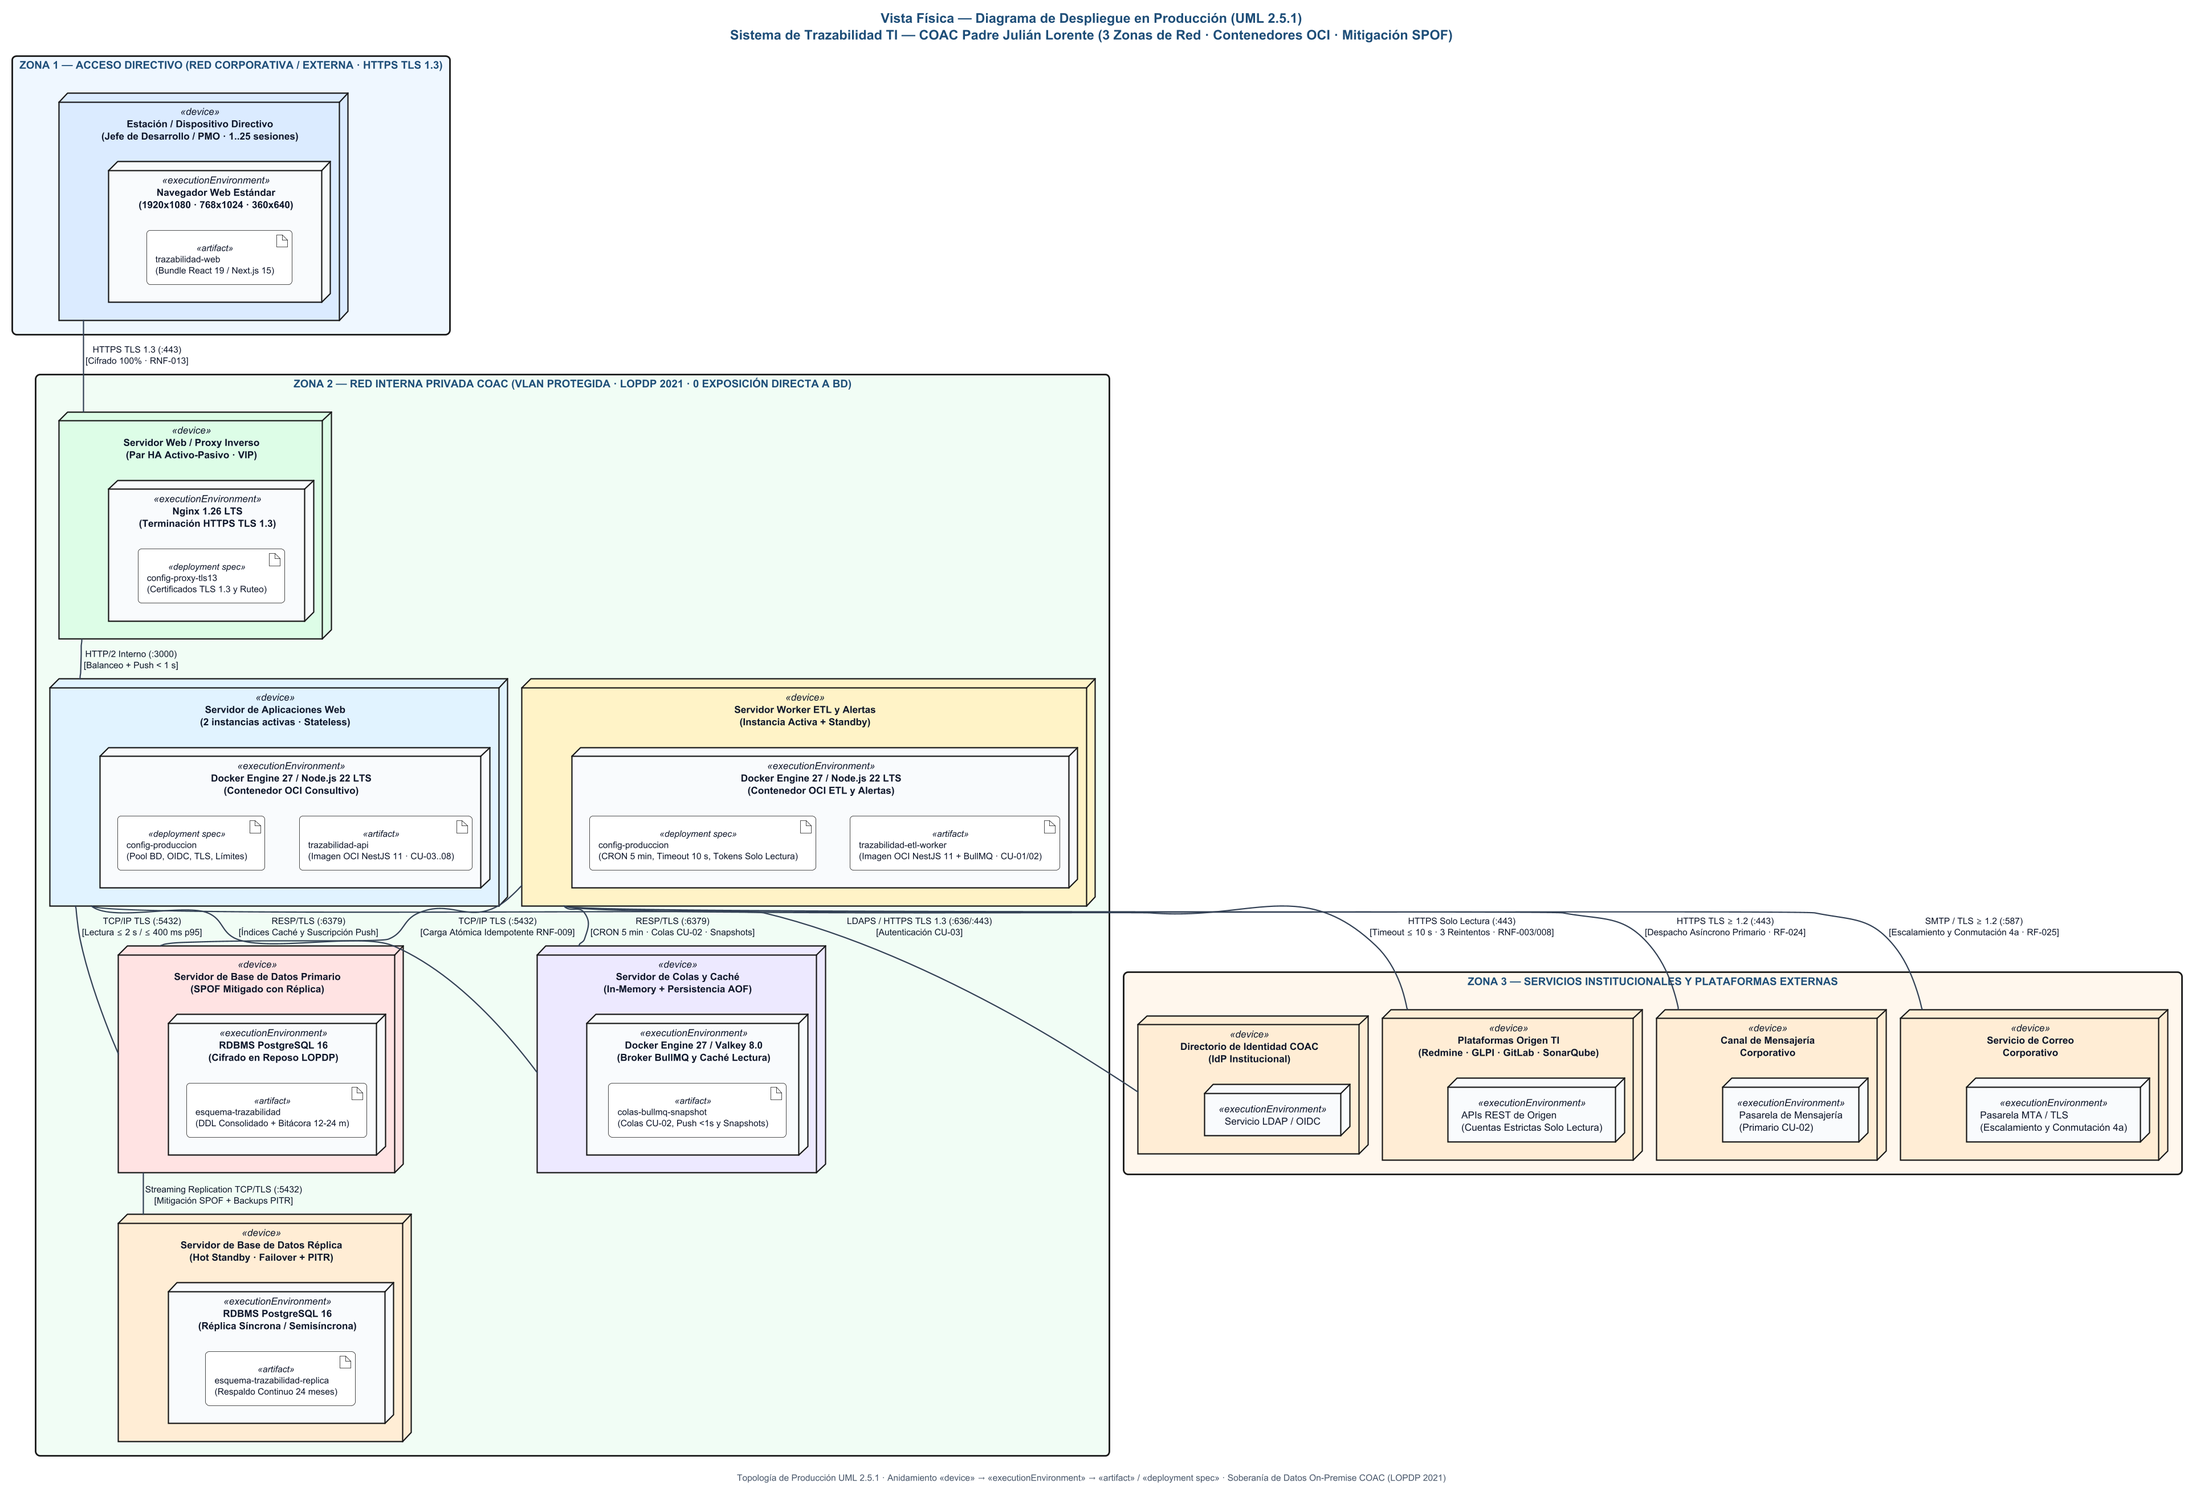
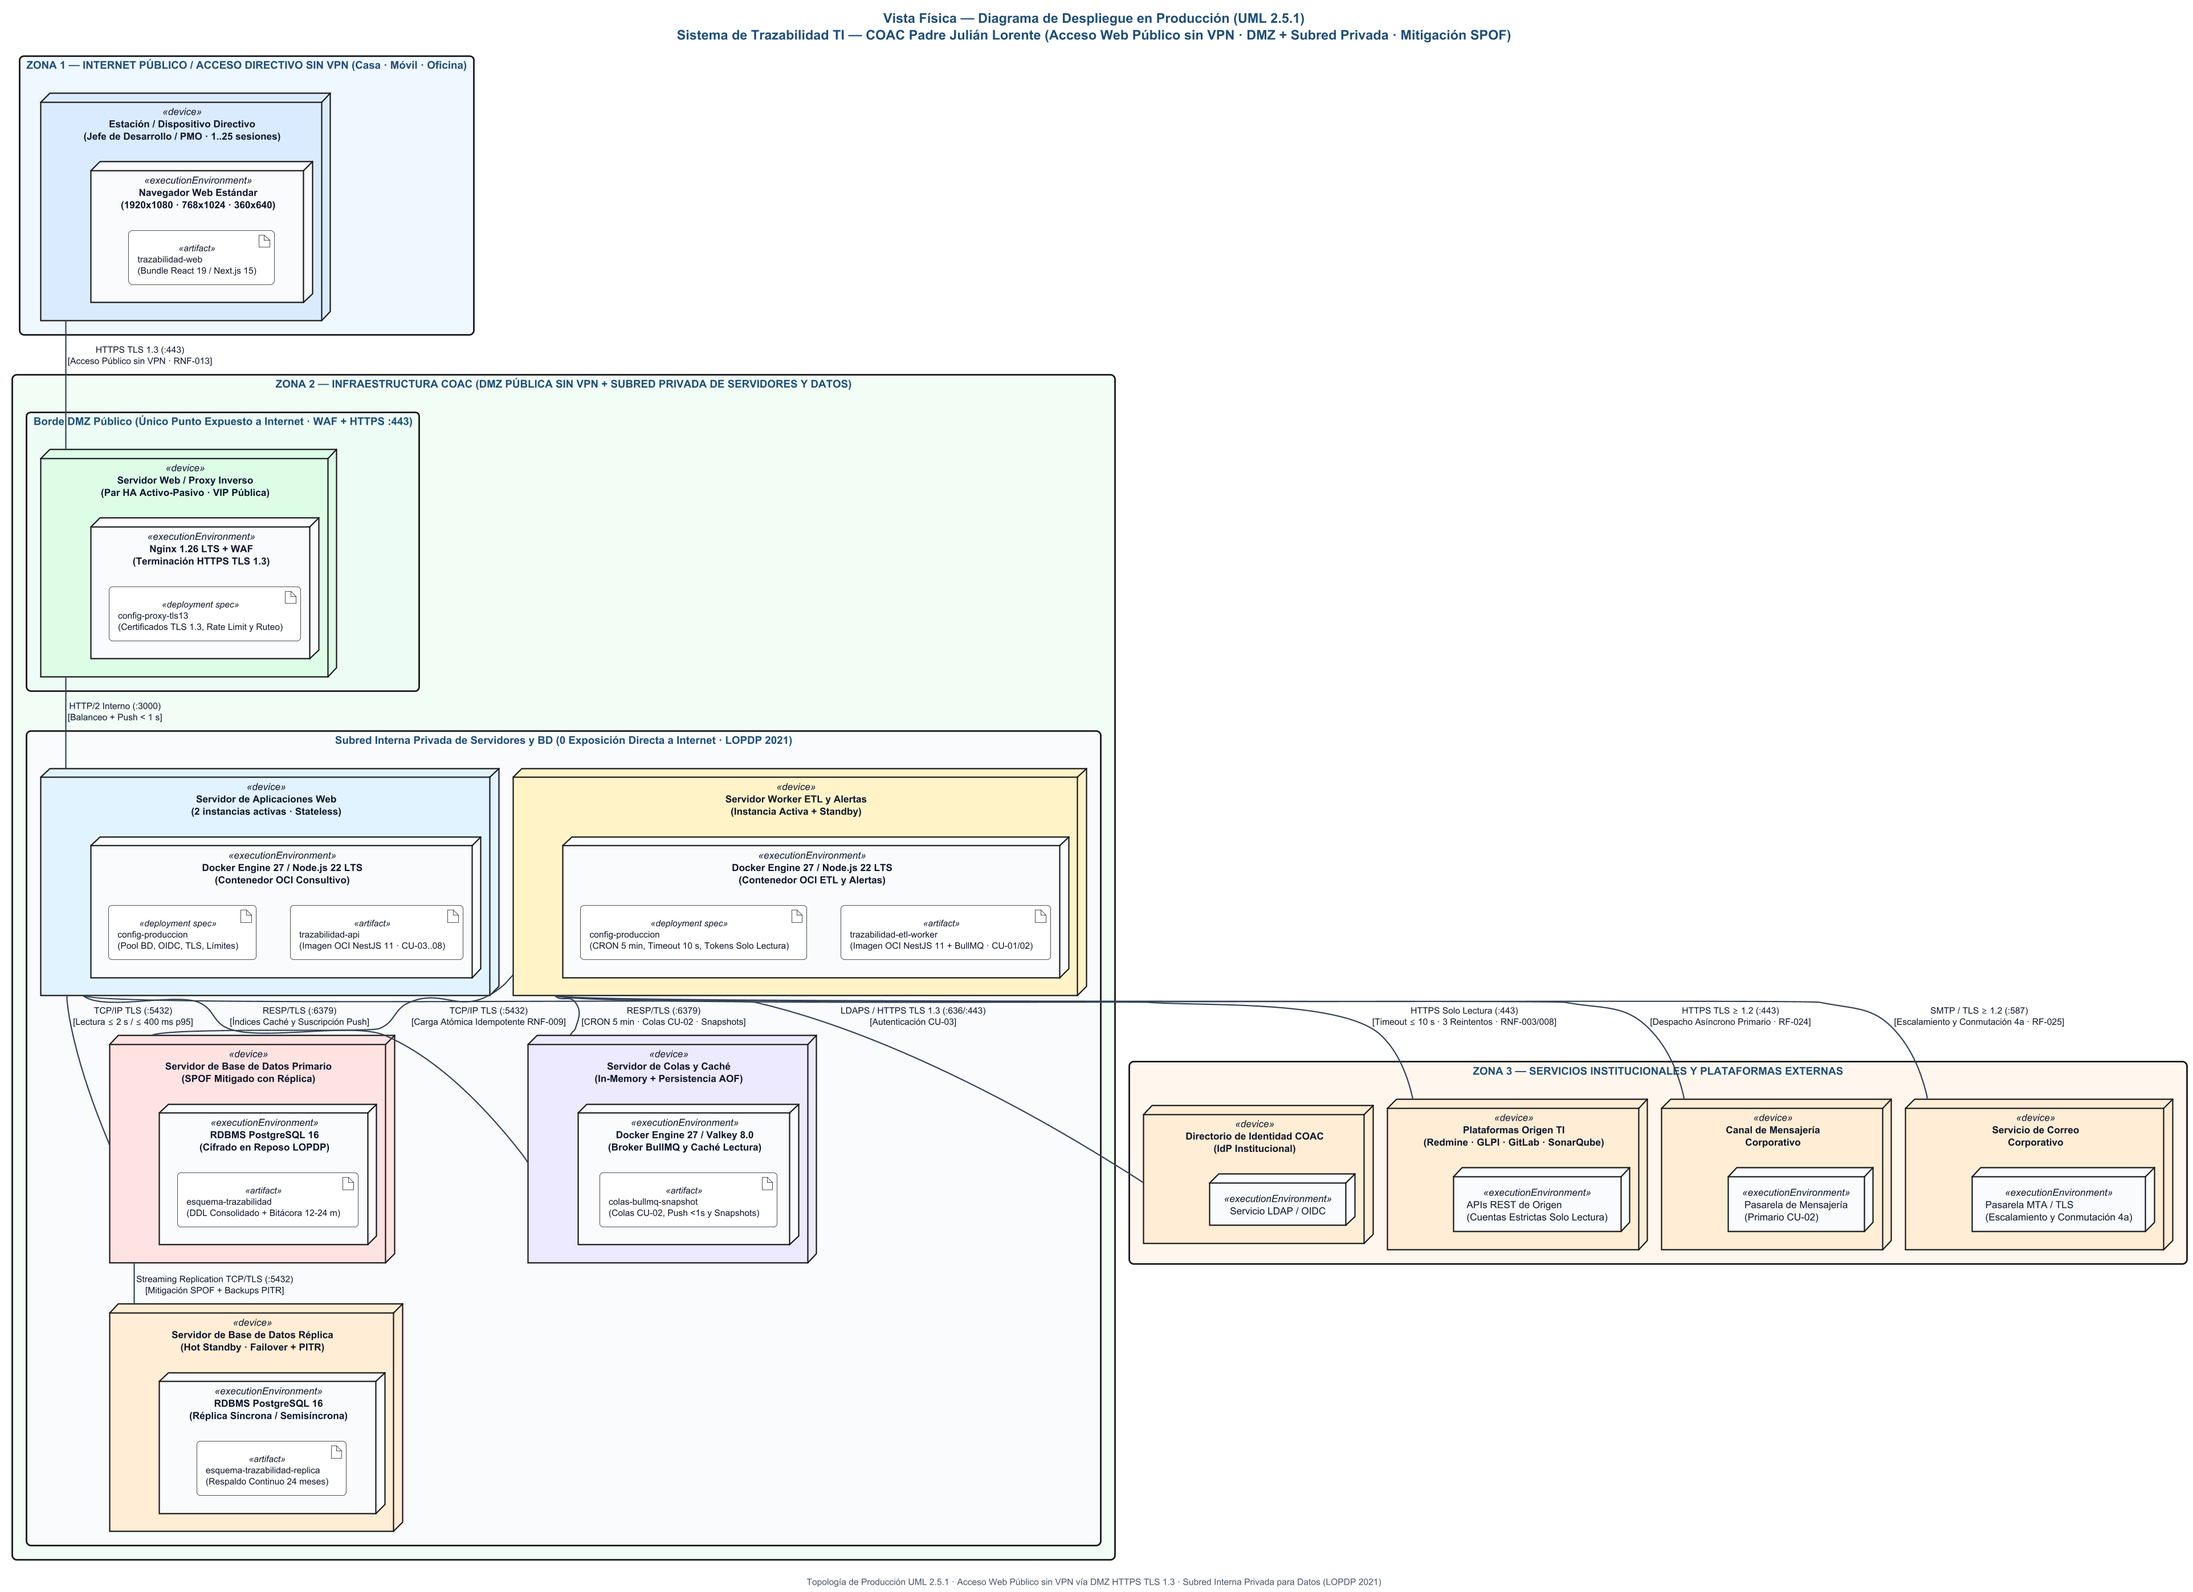
docs(vista-fisica): explicitar acceso web público sin VPN vía DMZ HTTPS y subred privada de BD

Changed region(s): [[0.0, 0.031, 1.0, 1.0], [0.31, 0.0, 0.6819, 0.031]]

diff --git a/docs/vista-fisica-despliegue.md b/docs/vista-fisica-despliegue.md
@@ -58,15 +58,15 @@ $$\text{Clase (Vista Lógica)} \longrightarrow \text{Paquete (Desarrollo)} \long
 
 ## 3. Diagramas de Despliegue por Entorno (Producción y Desarrollo Local)
 
-### 3.1 Entorno de Producción (3 Zonas de Red y Mitigación de SPOF)
-La topología productiva segrega estrictamente el tráfico en **3 zonas de confianza**:
-1. **Zona 1 — Acceso Directivo (Red Corporativa / Externa):** Únicamente la `Estación / Dispositivo Directivo` del `Jefe de Desarrollo / PMO` (hasta 25 sesiones concurrentes) ejecutando `trazabilidad-web` en navegador estándar y conectándose exclusivamente mediante **`HTTPS TLS 1.3 (:443)`** (`RNF-013`).
-2. **Zona 2 — Red Interna Privada COAC (VLAN Protegida):**
-   - **Borde:** `Servidor Web / Proxy Inverso` en **Par HA Activo-Pasivo (VIP)** con `Nginx 1.26 LTS`, única puerta de entrada cifrada que balancea peticiones hacia las instancias consultivas.
-   - **Aplicación Consultiva:** `Servidor de Aplicaciones Web (2 instancias activas, stateless)` con `trazabilidad-api`, garantizando `<= 2 s` p95 (`RNF-014`), `<= 400 ms` p95 en filtros (`RNF-018`) y continuidad inmediata si cae una instancia.
-   - **Procesamiento ETL y Alertas:** `Servidor Worker ETL y Alertas (Activo-Pasivo)` con `trazabilidad-etl-worker`, aislando físicamente el ciclo cada 5 minutos (`CU-01`) y el despacho externo (`CU-02`) del tráfico web.
-   - **Colas y Caché:** `Servidor de Colas y Caché` (`Valkey 8.0`) soportando colas `BullMQ`, snapshots de contingencia (`RNF-008`) y canal push incremental `< 1 s` (`RF-034`).
-   - **Datos con Mitigación SPOF:** `Servidor de Base de Datos Primario` (`PostgreSQL 16` con cifrado en reposo LOPDP) replicado en tiempo real hacia `Servidor de Base de Datos Réplica (Hot Standby)` con respaldos `PITR`.
+### 3.1 Entorno de Producción (Acceso Web Público sin VPN · 3 Zonas de Red · Mitigación de SPOF)
+La topología productiva publica el portal web de manera **accesible por Internet sin requerir VPN** (para que la PMO y Jefatura puedan consultar desde casa, móvil u oficina autenticándose mediante `CU-03`), mientras segrega estrictamente los servidores internos y la base de datos en **3 zonas de confianza**:
+1. **Zona 1 — Internet Público / Acceso Directivo sin VPN (Casa · Móvil · Oficina):** `Estación / Dispositivo Directivo` del `Jefe de Desarrollo / PMO` (hasta 25 sesiones concurrentes) ejecutando `trazabilidad-web` en navegador estándar (`1920x1080`, `768x1024`, `360x640 px`) y conectándose directamente por Internet mediante **`HTTPS TLS 1.3 (:443)`** (`RNF-013`) sin necesidad de cliente VPN, protegido mediante autenticación institucional (`CU-03`).
+2. **Zona 2 — Infraestructura COAC (Borde DMZ Público + Subred Interna Privada de Servidores y Datos):**
+   - **Borde DMZ Público (único punto expuesto a Internet):** `Servidor Web / Proxy Inverso` en **Par HA Activo-Pasivo (VIP Pública)** con `Nginx 1.26 LTS + WAF` y limitación de tasa (*rate limiting*), única puerta de entrada cifrada `HTTPS TLS 1.3 (:443)` que balancea peticiones hacia las instancias consultivas.
+   - **Subred Interna Privada — Aplicación Consultiva:** `Servidor de Aplicaciones Web (2 instancias activas, stateless)` con `trazabilidad-api`, garantizando `<= 2 s` p95 (`RNF-014`), `<= 400 ms` p95 en filtros (`RNF-018`) y continuidad inmediata si cae una instancia.
+   - **Subred Interna Privada — Procesamiento ETL y Alertas:** `Servidor Worker ETL y Alertas (Activo-Pasivo)` con `trazabilidad-etl-worker`, aislando físicamente el ciclo cada 5 minutos (`CU-01`) y el despacho externo (`CU-02`) del tráfico web.
+   - **Subred Interna Privada — Colas y Caché:** `Servidor de Colas y Caché` (`Valkey 8.0`) soportando colas `BullMQ`, snapshots de contingencia (`RNF-008`) y canal push incremental `< 1 s` (`RF-034`).
+   - **Subred Interna Privada — Datos con Mitigación SPOF (0 exposición directa a Internet):** `Servidor de Base de Datos Primario` (`PostgreSQL 16` con cifrado en reposo LOPDP) replicado en tiempo real hacia `Servidor de Base de Datos Réplica (Hot Standby)` con respaldos `PITR`.
 3. **Zona 3 — Servicios Institucionales y Plataformas Externas:** `Plataformas Origen TI` (`Redmine`, `GLPI`, `GitLab`, `SonarQube`) accedidas únicamente desde el Worker ETL en **solo lectura (`RNF-003`)**, `Directorio de Identidad COAC (LDAP/OIDC)` para `CU-03`, y canales salientes `Canal de Mensajería Corporativo` y `Servicio de Correo Corporativo` sobre `TLS >= 1.2` (`RNF-015`).
 
 ![Diagrama de Despliegue en Producción UML 2.5.1](uml/diagrama-despliegue-produccion.png)
@@ -82,8 +82,8 @@ Para demostrar que el mapeo físico es flexible sin modificar código fuente, lo
 
 | Nodo Físico (`«device»`) | Entorno Anidado (`«executionEnvironment»`) | Artefactos Alojados (`«deploy»`) | Multiplicidad / Zona | Protocolos y Puertos | Hardware Base Recomendado y SO |
 |---|---|---|---|---|---|
-| **Estación / Dispositivo Directivo** | Navegador Web estándar (Chrome, Edge, Firefox) | `trazabilidad-web` | `1..25` sesiones simultáneas (Zona 1) | Salida: `HTTPS TLS 1.3` (`:443`) | PC de escritorio, tableta o móvil institucional (`1920x1080`, `768x1024`, `360x640 px`, mín. 4 GB RAM). |
-| **Servidor Web / Proxy Inverso** | `Nginx 1.26 LTS` | `config-proxy-tls13` | `2` nodos HA Activo-Pasivo con VIP (Zona 2 — Borde) | Entrada: `HTTPS TLS 1.3` (`:443`) · Salida: `HTTP/2 Interno` (`:3000`) | `2 vCPU`, `4 GB RAM`, `40 GB SSD`, `Ubuntu Server 24.04 LTS` + firewall perimetral (únicamente puerto `:443` expuesto). |
+| **Estación / Dispositivo Directivo** | Navegador Web estándar (Chrome, Edge, Firefox) | `trazabilidad-web` | `1..25` sesiones simultáneas (Zona 1 — Internet sin VPN) | Salida: `HTTPS TLS 1.3` (`:443`) | PC personal/institucional, tableta o móvil desde casa u oficina (`1920x1080`, `768x1024`, `360x640 px`, mín. 4 GB RAM). |
+| **Servidor Web / Proxy Inverso** | `Nginx 1.26 LTS + WAF` | `config-proxy-tls13` | `2` nodos HA Activo-Pasivo con VIP Pública (Zona 2 — Borde DMZ) | Entrada pública: `HTTPS TLS 1.3` (`:443`) · Salida interna: `HTTP/2` (`:3000`) | `2 vCPU`, `4 GB RAM`, `40 GB SSD`, `Ubuntu Server 24.04 LTS` + firewall perimetral/WAF (únicamente puerto `:443` expuesto a Internet). |
 | **Servidor de Aplicaciones Web** | `Docker Engine 27` / `Node.js 22 LTS` | `trazabilidad-api` + `config-produccion` | `2` instancias activas *stateless* (Zona 2) | Entrada: `HTTP/2` (`:3000`) · Salida: `TCP/TLS` (`:5432`), `RESP/TLS` (`:6379`), `LDAPS/HTTPS` (`:636/:443`) | `4 vCPU`, `8 GB RAM`, `60 GB SSD` por instancia, `Ubuntu 24.04 LTS`. Soporta 25 sesiones y `5.000` registros con margen >60 %. |
 | **Servidor Worker ETL y Alertas** | `Docker Engine 27` / `Node.js 22 LTS` | `trazabilidad-etl-worker` + `config-produccion` | `1` activo + `1` standby (Zona 2) | Salida: `HTTPS Solo Lectura` (`:443`), `TCP/TLS` (`:5432`), `RESP/TLS` (`:6379`), `HTTPS TLS ≥ 1.2` (`:443`), `SMTP/TLS` (`:587`) | `4 vCPU`, `8 GB RAM`, `60 GB SSD`, `Ubuntu 24.04 LTS`. Ejecuta extracción paralela (`par`) de 4 fuentes con timeout `10 s`. |
 | **Servidor de Colas y Caché** | `Docker Engine 27` / `Valkey 8.0` | `colas-bullmq-snapshot` | `1` instancia con persistencia AOF (+ Sentinel opcional) (Zona 2) | Entrada: `RESP/TLS` (`:6379` solo desde App y Worker) | `2 vCPU`, `4 GB RAM`, `40 GB SSD NVMe`, `Ubuntu 24.04 LTS`. |
@@ -102,7 +102,7 @@ Para demostrar que el mapeo físico es flexible sin modificar código fuente, lo
 | **1. Cae una instancia del `Servidor de Aplicaciones Web`** | Disponibilidad y Escalabilidad (`RNF-014`) | **SUPERADA:** El par HA de `Nginx` detecta la falla mediante *health check* y redirige las hasta 25 sesiones activas hacia la segunda instancia viva. Al ser `trazabilidad-api` 100 % *stateless* (sesiones e índices compartidos en `Valkey`/`PostgreSQL`), ningún directivo pierde su consulta ni sus filtros. |
 | **2. Cae o supera `10 s` una fuente origen (`Redmine`, `GLPI`, `GitLab` o `SonarQube`)** | Fiabilidad y Tolerancia a Fallos (`RNF-008`) | **SUPERADA:** El `Servidor Worker ETL` ejecuta hasta `3` reintentos acotados; si persiste la caída, reutiliza el último snapshot válido en `Valkey`/`PostgreSQL` (`SincronizacionParcialSnapshot`) y el tablero en `Servidor de Aplicaciones Web` mantiene el **100 %** de disponibilidad en `<= 2 s` sin reclasificar actividades falsamente. |
 | **3. Falla el `Canal de Mensajería Corporativo` (o ambos canales)** | Resiliencia de Notificaciones (`RF-025`, `RNF-004`, `RNF-016`) | **SUPERADA:** El despacho corre desacoplado en `trazabilidad-etl-worker` vía colas `BullMQ`; ante rechazo del canal primario, conmuta automáticamente al `Servicio de Correo Corporativo` (`SMTP/TLS :587`, Flujo `4a`). Si ambos caen (`5a`), la alerta queda persistida al `100 %` en `PostgreSQL` (`EntregaFallida`) y visible en la vista única sin afectar a `CU-01`. |
-| **4. Escáner malicioso desde red externa intentando acceder a BD o APIs** | Seguridad Perimetral y `LOPDP 2021` (`RNF-013`, `RNF-017`) | **SUPERADA:** Únicamente el `Servidor Web / Proxy Inverso` escucha en el puerto `HTTPS TLS 1.3 (:443)`. Los servidores de aplicaciones, el Worker ETL, `Valkey` y `PostgreSQL` permanecen aislados dentro de la VLAN privada (Zona 2) sin enrutamiento directo externo; además, los textos en BD están 100 % libres de PII de socios desde la compuerta LOPDP. |
+| **4. Escáner malicioso desde Internet intentando acceder a BD o APIs** | Seguridad Perimetral y `LOPDP 2021` (`RNF-013`, `RNF-017`) | **SUPERADA:** Aunque el portal web es públicamente accesible sin VPN para la PMO y Jefatura, únicamente el `Servidor Web / Proxy Inverso (Nginx + WAF)` en la DMZ escucha en el puerto `HTTPS TLS 1.3 (:443)` exigiendo autenticación institucional (`CU-03`). Los servidores de aplicaciones, el Worker ETL, `Valkey` y `PostgreSQL` permanecen aislados en la subred interna privada sin enrutamiento directo desde Internet; además, los textos en BD están 100 % libres de PII de socios desde la compuerta LOPDP. |
 | **5. Detección de Puntos Únicos de Falla (SPOF internos y ocultos)** | Continuidad Operativa (`RNF-008`, `RNF-009`) | **VULNERABILIDADES IDENTIFICADAS Y MITIGADAS:** (a) Un único `Servidor de Base de Datos` habría sido un SPOF total ➔ mitigado con **`Servidor de Base de Datos Réplica (Hot Standby)`** y backups diarios `PITR`; (b) Un único proxy de borde habría sido SPOF de entrada ➔ mitigado con **Par HA Activo-Pasivo (VIP)** en `Nginx`; (c) **SPOF ocultos en dependencias externas** de la cooperativa (`IdP`, `Redmine`, `GitLab`, `GLPI`, `SonarQube`, `Mensajería`) ➔ mitigados mediante aislamiento asíncrono, timeouts `<= 10 s`, preservación de último snapshot válido y conmutación automática a correo corporativo. |
 
 ### 5.2 Plan de Contingencia y Recuperación
@@ -122,7 +122,8 @@ Para la toma de decisiones de infraestructura de la COAC Padre Julián Lorente s
 | **3. Disponibilidad y Escalabilidad** | **Alta disponibilidad controlada:** El par HA de `Nginx`, las 2 instancias de `trazabilidad-api` y la réplica `Hot Standby` de `PostgreSQL` cubren con holgura el perfil real del sistema (`<= 25` sesiones directivas, `<= 5.000` registros). Si el tráfico creciera drásticamente, añadir hardware físico requiere planificación previa. | **Autoscaling Multi-AZ (`SLA >= 99.95 %`):** `Kubernetes` reprograma Pods caídos (*self-healing*) y escala réplicas automáticamente, ideal para aplicaciones masivas de banca móvil con miles de socios concurrentes (sobre-dimensionado para 25 usuarios internos de Jefatura/PMO). |
 
 ### Recomendación Arquitectónica para la COAC Padre Julián Lorente
-Se recomienda la **Alternativa A: Despliegue On-Premise en Contenedores (`Docker Engine 27` + `OpenTofu` IaC)** dentro de la red privada institucional de la COAC, porque:
-1. Garantiza **soberanía física total** y cumplimiento directo de la **LOPDP Ecuador (2021)** (`RNF-017`) sin exponer `Redmine`, `GLPI`, `GitLab` ni `SonarQube` fuera de la intranet.
-2. Mantiene latencia mínima (`< 1 ms` en red local) hacia las fuentes de origen y la base consolidada, cumpliendo sobradamente `<= 2 s` p95 (`RNF-014`) y `<= 400 ms` p95 (`RNF-018`).
-3. Al empaquetar cada componente como **imagen OCI inmutable** (`«artifact»`) y describir la topología con **OpenTofu** (IaC), el sistema queda **100 % preparado para migrar en el futuro a Kubernetes** sin reescribir el código de dominio ni alterar las reglas de negocio.
+Se recomienda la **Alternativa A: Despliegue On-Premise en Contenedores (`Docker Engine 27` + `OpenTofu` IaC)** en el centro de datos de la COAC **con publicación web pública sin VPN a través de la DMZ (`Nginx + WAF` en `HTTPS TLS 1.3 :443`)**, porque:
+1. **Cumple la necesidad operativa de la PMO y Jefatura:** permite consultar el tablero desde casa, oficina o dispositivo móvil sin instalar ni depender de VPN corporativa, mediante acceso público cifrado `HTTPS TLS 1.3` y autenticación institucional (`CU-03`).
+2. **Garantiza soberanía física total y cumplimiento `LOPDP Ecuador (2021)` (`RNF-017`):** la base de datos consolidada (`PostgreSQL 16`) y las herramientas internas (`Redmine`, `GLPI`, `GitLab`, `SonarQube`) nunca salen del perímetro del Data Center de la COAC ni se exponen directamente a Internet.
+3. **Mantiene latencia mínima (`< 1 ms` en red local)** hacia las fuentes de origen y la base consolidada, cumpliendo sobradamente `<= 2 s` p95 (`RNF-014`) y `<= 400 ms` p95 (`RNF-018`).
+4. **Portabilidad futura sin reescritura:** al empaquetar cada componente como **imagen OCI inmutable** (`«artifact»`) y describir la topología con **OpenTofu** (IaC), el sistema queda **100 % preparado para migrar en el futuro a Kubernetes en nube pública** sin reescribir el código de dominio ni alterar las reglas de negocio.
